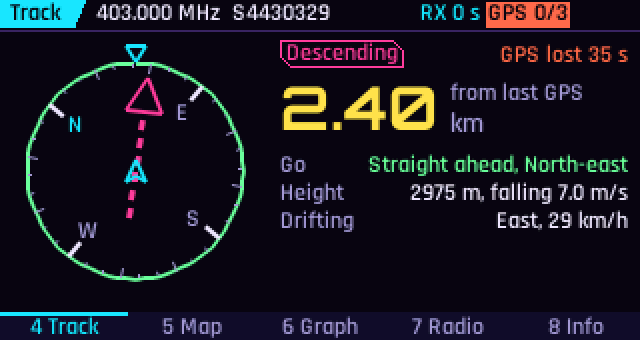
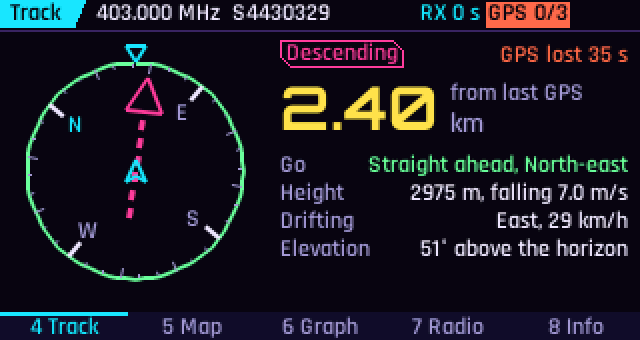
fix: Skew-T up to 10 hPa, elevation on Track, landing time that fits
Seen on the device with Y0310371, first heard at 15.5 km and then at
28 km:
- the Skew-T was empty: its axis stopped at 100 hPa and the whole
  profile lay above it. Once the sonde or its history has been above
  100 hPa the axis reaches 10 hPa (about 31 km), with grid lines and
  labels for 50, 20 and 10 hPa and finer dry adiabats up there. The
  isotherms now lean by a fixed temperature per unit of ln(p) instead of
  per pixel, so a stretched axis keeps the cold upper air on the diagram;
  the 100 hPa diagram is unchanged pixel for pixel
- Track shows the elevation to point an antenna at, from the last fix
  when GPS drops out, hidden once the sonde has landed
- the time to landing wrapped in the Track box while ascending ("in
  112:30"): from an hour it reads "1h52", and the box sizes the time
  first and gives the place text the rest; Map and Graph use the same
  format

Mockups regenerated for the changed screens.

Claude-Session: https://claude.ai/code/session_01NC5LhUc5V3FGkxE6anuYHf

Changed region(s): [[0.6562, 0.7059, 1.0, 0.7647], [0.4375, 0.7059, 0.5938, 0.7647]]

diff --git a/src/ui_graph.c b/src/ui_graph.c
@@ -7,16 +7,24 @@
 #define SK_X1 222
 #define SK_YB 143
 #define SK_YT 33
+/* Top of the pressure axis: 100 hPa, or 10 hPa (about 31 km) once the flight has been above 100 hPa. A sonde is
+ * often first heard high up, and with a fixed 100 hPa top its whole profile would lie above the diagram. */
+static double sk_top = 100.0;
+
 static double sk_y(double p)
 {
-    if (p < 100) p = 100;
+    if (p < sk_top) p = sk_top;
     if (p > 1050) p = 1050;
-    return SK_YB - log(1050.0 / p) / log(10.5) * (SK_YB - SK_YT);
+    return SK_YB - log(1050.0 / p) / log(1050.0 / sk_top) * (SK_YB - SK_YT);
 }
 
+/* Isotherms lean by the same temperature per unit of ln(p) whatever the axis' top: 45° on the 1050-100 hPa
+ * diagram. Tied to pixels instead, a stretched axis would lean less and the cold upper air slide off the left. */
 static double sk_x(double t, double p)
 {
-    return SK_X0 + (t + 35.0) * (SK_X1 - SK_X0) / 80.0 + (SK_YB - sk_y(p));
+    if (p < sk_top) p = sk_top;
+    if (p > 1050) p = 1050;
+    return SK_X0 + (t + 35.0) * (SK_X1 - SK_X0) / 80.0 + log(1050.0 / p) / log(10.5) * (SK_YB - SK_YT);
 }
 
 static void sk_ln(double t1, double p1, double t2, double p2, uint32_t col, int w)
@@ -26,25 +34,39 @@ static void sk_ln(double t1, double p1, double t2, double p2, uint32_t col, int 
 
 void p_skewt(void)
 {
-    static const int isob[] = {1000, 850, 700, 500, 300, 200, 100};
-    static const double wl[] = {900, 700, 500, 400, 300, 200, 150};
+    /* grid lines; labels only where they have room (the extended axis squeezes the lower levels) */
+    static const int isob[] = {1000, 850, 700, 500, 300, 200, 100, 50, 20, 10};
+    static const int lab100[] = {1000, 700, 500, 300, 200, 100}, lab10[] = {1000, 500, 200, 100, 50, 20, 10};
+    static const double wl100[] = {900, 700, 500, 400, 300, 200, 150}, wl10[] = {850, 500, 300, 150, 70, 30, 15};
     const hist_t *h = &A->hist;
     const sonde_t *s = &A->sonde;
-    double zero_alt = -1, trop_alt = -1, tmin = 1e9;
-    int i, th, t, p;
+    const int *lab;
+    const double *wl;
+    double zero_alt = -1, trop_alt = -1, tmin = 1e9, p, pn;
+    int i, th, t, nlab;
+
+    sk_top = A->have_sonde && s->pressure > 0 && s->pressure < 100 ? 10.0 : 100.0;
+    for (i = 0; i < h->n && sk_top > 10.0; i++)
+        if (h->p[i].pres > 0 && h->p[i].pres < 100) sk_top = 10.0;
+    lab = sk_top < 100 ? lab10 : lab100;
+    nlab = sk_top < 100 ? (int)(sizeof lab10 / sizeof lab10[0]) : (int)(sizeof lab100 / sizeof lab100[0]);
+    wl = sk_top < 100 ? wl10 : wl100;
 
     top_bar("Graph 1/2", C_CY, NULL);
     fill(SK_X0, SK_YT, SK_X1 - SK_X0, SK_YB - SK_YT, C_P);
-    for (th = -20; th < 180; th += 20) /* dry adiabats: T = theta (p/1000)^0.2857 */
-        for (p = 1050; p > 100; p -= 50)
+    for (th = -20; th < (sk_top < 100 ? 300 : 180); th += 20) /* dry adiabats: T = theta (p/1000)^0.2857 */
+        for (p = 1050; p > sk_top; p = pn) {
+            pn = p > 150 ? p - 50 : p - 5; /* finer where the axis is stretched */
             sk_ln((th + 273.15) * pow(p / 1000.0, 0.2857) - 273.15, p,
-                  (th + 273.15) * pow((p - 50) / 1000.0, 0.2857) - 273.15, p - 50, C_AD, 1);
-    for (t = -120; t < 60; t += 20) sk_ln(t, 1050, t, 100, t == 0 ? C_DIM : C_L, 1);
-    for (i = 0; i < 6; i++) ln(SK_X0, sk_y(isob[i]), SK_X1, sk_y(isob[i]), C_L, 1);
+                  (th + 273.15) * pow(pn / 1000.0, 0.2857) - 273.15, pn, C_AD, 1);
+        }
+    for (t = sk_top < 100 ? -160 : -120; t < 60; t += 20) sk_ln(t, 1050, t, sk_top, t == 0 ? C_DIM : C_L, 1);
+    for (i = 0; i < (int)(sizeof isob / sizeof isob[0]); i++)
+        if (isob[i] > sk_top) ln(SK_X0, sk_y(isob[i]), SK_X1, sk_y(isob[i]), C_L, 1);
 
     for (i = 1; i < h->n; i++) {
         const hist_pt_t *a = &h->p[i - 1], *b = &h->p[i];
-        if (a->pres < 100 && b->pres < 100) continue;
+        if (a->pres < sk_top && b->pres < sk_top) continue;
         if (a->temp > -270 && b->temp > -270) {
             sk_ln(a->temp, a->pres, b->temp, b->pres, C_CY, 2);
             if (a->rh >= 0 && b->rh >= 0 && (i & 1)) /* dashed: every second segment */
@@ -66,15 +88,15 @@ void p_skewt(void)
         fill((int)bx - 1, (int)by - 1, 4, 4, C_GN);
         txt(240, (int)y - 6, 15, F_S, C_GN, AL_R, "%.0f", h->p[best].ws);
     }
-    if (A->have_sonde && s->pressure >= 100) {
+    if (A->have_sonde && s->pressure >= sk_top) {
         dash(SK_X0, sk_y(s->pressure), SK_X1, sk_y(s->pressure), C_TX, 1, 2, 3);
     }
     ln(SK_X0, SK_YT, SK_X1, SK_YT, C_DIM, 1);
     ln(SK_X1, SK_YT, SK_X1, SK_YB, C_DIM, 1);
     ln(SK_X1, SK_YB, SK_X0, SK_YB, C_DIM, 1);
     ln(SK_X0, SK_YB, SK_X0, SK_YT, C_DIM, 1);
-    for (i = 0; i < 7; i++) /* 850 hPa has a grid line but no label: it would collide with 700 and 1000 */
-        if (isob[i] != 850) txt(0, (int)sk_y(isob[i]) - (i == 0 ? 10 : 6), SK_X0 - 3, F_S, C_DIM, AL_R, "%d", isob[i]);
+    for (i = 0; i < nlab; i++) /* 850 hPa has a grid line but no label: it would collide with 700 and 1000 */
+        txt(0, (int)sk_y(lab[i]) - (i == 0 ? 10 : (lab[i] == 10 ? 0 : 6)), SK_X0 - 3, F_S, C_DIM, AL_R, "%d", lab[i]);
     for (t = -20; t <= 40; t += 20) txt((int)sk_x(t, 1050) - 12, 144, 24, F_S, C_DIM, AL_C, t ? "%+d" : "%d", t);
     txt(226, 144, 29, F_S, C_GN, AL_R, "m/s");
 
@@ -136,7 +158,7 @@ void p_flight(void)
     if (A->have_sonde) {
         txt(26, 18, 80, F_M, C_CY, AL_L, "Alt %.0f m", A->sonde.alt);
         txt(106, 18, 86, F_M, C_PK, AL_L, "V/S %+.1f m/s", A->vv_s);
-        if (A->pred.valid && fresh()) txt(192, 18, 96, F_M, C_YL, AL_L, "Landing T-%02d:%02d", land_rem_s() / 60, land_rem_s() % 60);
+        if (A->pred.valid && fresh()) txt(192, 18, 96, F_M, C_YL, AL_L, "Landing T-%s", land_rem_txt());
     }
     nav_bar(PG_GRAPH);
 }

diff --git a/src/ui_track.c b/src/ui_track.c
@@ -170,6 +170,10 @@ static void track_panel(double dist, double brg, int last)
         const char *t = turn_words(rel, &tc);
         kv(140, 76, 174, "Go", tc, "%s, %s", t, point8(brg));
     } else kv(140, 76, 174, "Go", C_TX, "Head %s", point8(brg));
+    if (A->flight.phase != PH_LANDED) { /* where to point an antenna: from the last fix too, like the distance */
+        double el = geo_elev(dist, A->gps.alt, s->alt);
+        kv(140, 118, 174, "Elevation", C_TX, "%.0f° %s the horizon", fabs(el), el >= -0.5 ? "above" : "below");
+    }
     if (A->flight.phase == PH_LANDED) kv(140, 90, 174, "Height", C_TX, "%.0f m, landed", s->alt);
     else {
         kv(140, 90, 174, "Height", C_TX, "%.0f m, %s %.1f m/s", s->alt, A->vv_s < -0.05 ? "falling" : "rising",
@@ -179,9 +183,13 @@ static void track_panel(double dist, double brg, int last)
 
     if (ok && A->have_land && !last) {
         fmt_dist(num, sizeof num, &unit, A->land_dist);
+        char when[24];
+        int ww;
+        snprintf(when, sizeof when, "in %s", land_rem_txt());
+        ww = text_w(F_S, when) + 2; /* the time keeps its width, the place text gets the rest: no wrapping */
         box(140, 132, 174, 18, C_YL, C_P);
-        txt(146, 134, 124, F_S, C_YL, AL_L, "Lands %s %s %s", num, unit, point8(A->land_brg));
-        txt(266, 134, 42, F_S, C_YL, AL_R, "in %d:%02d", land_rem_s() / 60, land_rem_s() % 60);
+        txt(146, 134, 308 - ww - 150, F_S, C_YL, AL_L, "Lands %s %s %s", num, unit, point8(A->land_brg));
+        txt(308 - ww, 134, ww, F_S, C_YL, AL_R, "%s", when);
     } else if (!ok) {
         box(140, 132, 174, 18, C_RD, C_P);
         txt(146, 134, 40, F_S, C_DIM, AL_L, "Last fix");

diff --git a/src/ui_draw.c b/src/ui_draw.c
@@ -161,6 +161,16 @@ int land_rem_s(void)
     return r < 0 ? 0 : (int)r;
 }
 
+/* Time to landing, short enough for the small boxes: "12:30" (min:s), from an hour "1h52" (h, min). */
+const char *land_rem_txt(void)
+{
+    static char b[16];
+    int r = land_rem_s();
+    if (r >= 3600) snprintf(b, sizeof b, "%dh%02d", r / 3600 % 100, r / 60 % 60);
+    else snprintf(b, sizeof b, "%d:%02d", r / 60, r % 60);
+    return b;
+}
+
 void read_battery(void)
 {
     DIR *d;

diff --git a/src/ui_map.c b/src/ui_map.c
@@ -161,7 +161,7 @@ void p_map(void)
             int lx = (int)lx2 + 9 + 86 > 318 ? (int)lx2 - 9 - 86 : (int)lx2 + 9, ly = (int)ly2 + 5;
             if (lx < 2) lx = 2;
             fill(lx, ly, 86, 13, C_G);
-            txt(lx, ly, 86, F_S, C_YL, AL_C, "Landing T-%02d:%02d", land_rem_s() / 60, land_rem_s() % 60);
+            txt(lx, ly, 86, F_S, C_YL, AL_C, "Landing T-%s", land_rem_txt());
         }
     }
     if (have_s) {

diff --git a/src/ui_priv.h b/src/ui_priv.h
@@ -45,6 +45,7 @@ void pol(double cx, double cy, double r, double deg, double *x, double *y);
 void fmt_dist(char *num, size_t n, const char **unit, double m);
 int fresh(void);
 int land_rem_s(void);
+const char *land_rem_txt(void);
 void read_battery(void);
 void top_bar(const char *name, uint32_t chip, const char *mid);
 void nav_bar(int active);

diff --git a/docs/project-roadmap.md b/docs/project-roadmap.md
@@ -19,7 +19,7 @@ commitment to a future feature.
 | 0.5.0 | 2026-11-19 14:12 | `59e89c7`..`6f6f036` | `Tab` switches screens; SDR-style start on the Radio screen; WFM audio; automatic Scan that tries peaks; tuner-range frequency entry; frame tick and ACT LED on Track and Map; GPS satellite counts; auto_rx-format log per sonde; green compass ring within 15° |
 | 0.5.1 | 2026-11-20 | `6f6f036`..`v0.5.1` | `Z` zooms the map in; zoom range 6–18; app data grouped in `data_dir` (`~/sondechase`: `sondechase.csv`, `log/`, `tiles/`), older files moved in; map tile cache 1000 MB for offline use; one CSV header per file; auto_rx log timed by the sonde's GPS time; inline `#` comments in the config; versioned tile User-Agent; live spectrum only on the Radio screen |
 | 0.6.0 | 2026-11-20 | `v0.5.1`..`v0.6.0` | `Sym` + `R` (`-`) zooms out and `Sym` + `T` (`+`) zooms in (the driver sends them as keypad 7 and 8, which the app ignored); `Z` no longer zooms; `Q` no longer quits (hold `Esc` 3 s only, so a stray key cannot close the app); Track in plain words (distance labelled, `Go: Bear right, East`, height, drift; no degrees) and kept going from the last device fix when GPS drops out; Info 2/2 with the exact numbers; compass calibration in the app (Info, `K`, saved to `<data_dir>/compass.conf`); page number in the top-left label (`Graph 1/2`, `Info 1/2`); altitude label no longer cut off |
-| Unreleased | | `v0.6.0`.. | The LCD framebuffer is found at start (`/dev/fb_lcd`, else `/proc/fb`) instead of a fixed `/dev/fb0`, so the app stays on the LCD when HDMI is attached; a map download whose command would not fit its buffer is skipped instead of running cut; no compiler warnings under GCC 14.2; UI split into one file per screen (no visible change); tilt-compensated compass: the calibration (Info, `K`) gains a lean step that finds how the BMI270 accelerometer lines up with the BMM150 magnetometer, after which the device need not be held flat (checked on the device: 2.7° RMS up to 35° of lean against 12.3° flat-only); HackRF One support (`sdr = auto` picks it from USB; the package depends on `libhackrf0`, loaded at run time) behind a receiver back-end interface (tried on the device: scan and WFM audio), its gain in `hackrf_gain` (a total or `LNA,VGA,amp`), experimental: no RS41 reception yet ([issue #1](https://github.com/hieuha/CardputerZero-Sondechase/issues/1)); the lean step can be skipped with `Enter`, and the heading falls back to the flat formula when the accelerometer cannot be read; DSP speed-ups measured on the device: decoder front end 2.6× faster (same output bit for bit), HackRF halving 2.5×, NFM and WFM audio about 1.5×; stability review: decoder children get SIGPIPE back (a dead stage no longer leaves the pipeline hanging), the IQ loops are bounded per main-loop pass, a receiver lost while paused or during Scan is reopened and Scan resumes by itself, frames with non-finite or absurd values are dropped and serials reduced to safe characters, gpsd connects without blocking, tile downloads must be PNGs and the cache sweep and DNS check run in children, the Map wraps at the date line and clips its dashed line, config values are range-checked, the compass turn needs 0.1 G (Svalbard works) and its file is written on a fresh install |
+| Unreleased | | `v0.6.0`.. | The LCD framebuffer is found at start (`/dev/fb_lcd`, else `/proc/fb`) instead of a fixed `/dev/fb0`, so the app stays on the LCD when HDMI is attached; a map download whose command would not fit its buffer is skipped instead of running cut; no compiler warnings under GCC 14.2; UI split into one file per screen (no visible change); tilt-compensated compass: the calibration (Info, `K`) gains a lean step that finds how the BMI270 accelerometer lines up with the BMM150 magnetometer, after which the device need not be held flat (checked on the device: 2.7° RMS up to 35° of lean against 12.3° flat-only); HackRF One support (`sdr = auto` picks it from USB; the package depends on `libhackrf0`, loaded at run time) behind a receiver back-end interface (tried on the device: scan and WFM audio), its gain in `hackrf_gain` (a total or `LNA,VGA,amp`), experimental: no RS41 reception yet ([issue #1](https://github.com/hieuha/CardputerZero-Sondechase/issues/1)); the lean step can be skipped with `Enter`, and the heading falls back to the flat formula when the accelerometer cannot be read; DSP speed-ups measured on the device: decoder front end 2.6× faster (same output bit for bit), HackRF halving 2.5×, NFM and WFM audio about 1.5×; stability review: decoder children get SIGPIPE back (a dead stage no longer leaves the pipeline hanging), the IQ loops are bounded per main-loop pass, a receiver lost while paused or during Scan is reopened and Scan resumes by itself, frames with non-finite or absurd values are dropped and serials reduced to safe characters, gpsd connects without blocking, tile downloads must be PNGs and the cache sweep and DNS check run in children, the Map wraps at the date line and clips its dashed line, config values are range-checked, the compass turn needs 0.1 G (Svalbard works) and its file is written on a fresh install; Skew-T extends to 10 hPa once the flight is above 100 hPa (a sonde first heard high up drew nothing), Track shows the elevation, and the time to landing reads `1h52` from an hour so the Track box no longer wraps |
 
 Notes:
 - Version bumps touch `CMakeLists.txt`, `app-builder.json` and both READMEs (see
@@ -50,7 +50,7 @@ Grouped by kind. Each item is something the code or the test status says is miss
 | RS41 only | Other sonde types need their own decoder and `fsk_demod` parameters |
 | Weak spurs near a strong sonde (402.88 and 404.6 MHz seen with the sonde a few cm from the antenna) | The overview shows them; tuning to them shows nothing to decode |
 | Compass soft iron not calibrated: the field's sphere is about 11 % out of round on the device | Tilt-compensated heading is within about 3° RMS up to 35° of lean, 7° at 35–50°, worse beyond (measured, see [system architecture](system-architecture.md#compass-compassc)) |
-| Skew-T stops at 100 hPa; no moist adiabats or mixing-ratio lines | Upper part of the diagram is not shown |
+| Skew-T stops at 10 hPa (100 hPa until the flight goes higher); no moist adiabats or mixing-ratio lines | Above about 31 km the profile is not shown |
 | Landing prediction during ascent depends on `burst_alt`; no wind above the current altitude | Estimate changes as the balloon climbs |
 | Flight history keeps 2048 samples (decimated) and is not restored after an app restart | Graphs start empty after a restart |
 | The CSV log has no SNR or frequency error | Those fields are `-1` in the auto_rx-format log |

diff --git a/README.vi.md b/README.vi.md
@@ -76,7 +76,7 @@ Muốn tự build gói (trên máy hoặc cross-compile), xem [hướng dẫn de
 
 | Phím | Chức năng |
 |---|---|
-| `4` Track | La bàn HUD và khoảng cách tới sonde, kèm hướng cần đi viết bằng chữ (`Bear right, East`, `Straight ahead`), độ cao, hướng trôi và điểm rơi dự đoán. Vòng la bàn và dòng `Go` chuyển xanh khi mũi tên lệch không quá 15° so với hướng đang đi. Khi mất GPS, khoảng cách và hướng tính từ vị trí GPS cuối cùng của máy (màu vàng, `from last GPS`). Khi sonde chưa có GPS fix: số hiệu, frame và pin. Mỗi frame kêu tít và nháy đèn đỏ |
+| `4` Track | La bàn HUD và khoảng cách tới sonde, kèm hướng cần đi viết bằng chữ (`Bear right, East`, `Straight ahead`), độ cao, hướng trôi, góc ngẩng để chĩa anten (`Elevation 37° above the horizon`, ẩn khi sonde đã rơi xuống đất) và điểm rơi dự đoán kèm thời gian còn lại (`in 7:38`, từ một giờ trở lên là `in 1h52`). Vòng la bàn và dòng `Go` chuyển xanh khi mũi tên lệch không quá 15° so với hướng đang đi. Khi mất GPS, khoảng cách và hướng tính từ vị trí GPS cuối cùng của máy (màu vàng, `from last GPS`). Khi sonde chưa có GPS fix: số hiệu, frame và pin. Mỗi frame kêu tít và nháy đèn đỏ |
 | `5` Map | Tile bản đồ, vị trí máy, sonde, đường bay, điểm rơi. Phím mũi tên để kéo bản đồ (giữ để kéo liên tục; bản đồ thôi bám theo, hiện `free`). `Sym` + `T` (`+`) để phóng to, `Sym` + `R` (`-`) để thu nhỏ. `C` chuyển vòng giữa cả hai / theo máy / theo sonde, hoặc bám theo lại sau khi kéo. `V` đổi kiểu đơn giản / chi tiết. Khi chưa có vị trí nào: lấy tâm ở `map_lat` / `map_lon` |
 | `6` Graph | `Left` / `Right` để đổi trang: Skew-T log-P, độ cao và tốc độ đứng theo thời gian |
 | `7` Radio | Phổ kèm âm thanh của tần số đang chỉnh. `Left` / `Right` ±10 kHz, `Up` / `Down` ±100 kHz (giữ để chỉnh liên tục). `Enter` để giải mã tại đó. `S` để Scan, `Esc` để quay lại. `D` đổi chế độ (NFM / AM / USB / LSB / WFM), `B` đổi độ rộng kênh |
@@ -95,7 +95,7 @@ Cảnh báo bóng nổ hiện đè lên mọi màn hình: `Enter` để mở Map
 
 | Màn hình | Nội dung |
 |---|---|
-| Track | Vòng la bàn, mũi tên chỉ tới sonde, khoảng cách, hướng cần đi, độ cao, hướng trôi, điểm rơi; thanh trên cùng có tần số, trạng thái và GPS |
+| Track | Vòng la bàn, mũi tên chỉ tới sonde, khoảng cách, hướng cần đi, độ cao, hướng trôi, góc ngẩng, điểm rơi; thanh trên cùng có tần số, trạng thái và GPS |
 | Map | Tile OpenStreetMap (tải khi cần), vị trí máy, sonde, đường bay, điểm rơi |
 | Graph | Skew-T log-P (`Graph 1/2`) và độ cao / tốc độ đứng, có đánh dấu điểm nổ (`Graph 2/2`) |
 | Radio | Phổ trực tiếp quanh tần số đang chỉnh, vùng tô màu thể hiện độ rộng kênh, trạng thái giải mã |
@@ -197,7 +197,8 @@ dongle. Chi tiết và số đo trên máy thật: [hướng dẫn deploy](docs/
   Sau đó la bàn được bù độ nghiêng nhờ gia tốc kế, nên không cần cầm máy nằm ngang (trừ khi đầu máy chĩa gần thẳng lên
   trời hoặc xuống đất, trong khoảng 15°). Trước khi hiệu chỉnh, chỉ nên tin hướng khi đang di chuyển nhanh hơn khoảng 5,4 km/h (1,5 m/s, `cog_min_speed`)
   (hướng GPS).
-- Skew-T dừng ở 100 hPa; chưa vẽ đường đoạn nhiệt ẩm và đường tỉ lệ hỗn hợp.
+- Skew-T vẽ tới 100 hPa, hoặc tới 10 hPa (khoảng 31 km) khi chuyến bay đã lên trên 100 hPa; chưa vẽ đường đoạn nhiệt
+  ẩm và đường tỉ lệ hỗn hợp.
 - Dự đoán điểm rơi khi bóng đang lên phụ thuộc vào `burst_alt` giả định.
 - Lịch sử chuyến bay không được khôi phục sau khi mở lại app.
 - Chưa kiểm ngoài thực địa: GPS, beeper, phát hiện nổ và điểm rơi trên một chuyến bay thật. Danh sách đầy đủ trong

diff --git a/README.md b/README.md
@@ -76,7 +76,7 @@ To build the package yourself (on the device or cross-compiled), see [deployment
 
 | Key | Function |
 |---|---|
-| `4` Track | HUD compass and the distance to the sonde, with which way to go in words (`Bear right, East`, `Straight ahead`), its height and drift, and the predicted landing point. The ring and the `Go` line turn green while the arrow is within 15° of straight ahead. If GPS drops out, distance and direction come from the device's last fix (yellow, `from last GPS`). Sonde without a GPS fix: serial, frame and battery. Each frame ticks and blinks the red LED |
+| `4` Track | HUD compass and the distance to the sonde, with which way to go in words (`Bear right, East`, `Straight ahead`), its height and drift, the elevation to point an antenna at (`Elevation 37° above the horizon`, hidden once it has landed), and the predicted landing point with the time left (`in 7:38`, from an hour `in 1h52`). The ring and the `Go` line turn green while the arrow is within 15° of straight ahead. If GPS drops out, distance and direction come from the device's last fix (yellow, `from last GPS`). Sonde without a GPS fix: serial, frame and battery. Each frame ticks and blinks the red LED |
 | `5` Map | Tiles, device position, sonde, flight track, landing point. Arrow keys pan (hold to keep moving; the map stops following, `free`). `Sym` + `T` (`+`) zooms in, `Sym` + `R` (`-`) zooms out. `C` cycles both / device / sonde, or follows again after panning. `V` switches simple / detailed style. With no position yet: centred on `map_lat` / `map_lon` |
 | `6` Graph | `Left` / `Right` switch page: Skew-T log-P, altitude and vertical speed over time |
 | `7` Radio | Spectrum with the tuned frequency's audio. `Left` / `Right` ±10 kHz, `Up` / `Down` ±100 kHz (hold to keep tuning). `Enter` decodes here. `S` Scan, `Esc` goes back. `D` mode (NFM / AM / USB / LSB / WFM), `B` channel width |
@@ -95,7 +95,7 @@ The burst alert overlays every screen: `Enter` opens Map, a short `Esc` dismisse
 
 | Screen | Shows |
 |---|---|
-| Track | Compass ring, arrow to the sonde, distance, which way to go, height, drift, landing point; top bar with the frequency, state and GPS |
+| Track | Compass ring, arrow to the sonde, distance, which way to go, height, drift, elevation, landing point; top bar with the frequency, state and GPS |
 | Map | OpenStreetMap tiles (downloaded on demand), device, sonde, track, landing point |
 | Graph | Skew-T log-P (`Graph 1/2`) and altitude / vertical speed with the burst marked (`Graph 2/2`) |
 | Radio | Live spectrum of the receiver's band around the tuned frequency, shaded channel width, decode status |
@@ -194,7 +194,8 @@ a dongle. Details and the device measurements: [deployment guide](docs/deploymen
   it is tilt-compensated with the accelerometer, so the device need not be held flat (not within about 15° of
   pointing straight up or down). Until then, trust the heading only while moving faster than about 5.4 km/h
   (1.5 m/s, `cog_min_speed`), where it is the GPS course.
-- Skew-T stops at 100 hPa; moist adiabats and mixing-ratio lines are not drawn.
+- Skew-T reaches 100 hPa, or 10 hPa (about 31 km) once the flight has been above 100 hPa; moist adiabats and
+  mixing-ratio lines are not drawn.
 - Landing prediction during ascent depends on the assumed `burst_alt`.
 - Flight history is not restored after an app restart.
 - Not yet checked in the field: GPS, the beeper, burst detection and landing on a real flight. Full list in the

diff --git a/docs/system-architecture.md b/docs/system-architecture.md
@@ -39,13 +39,13 @@ The core (`sc_core`) has no LVGL dependency and is unit-tested on any Linux host
 | `src/demo.c` | 139 | Simulated flight (`demo = 1`) through the same frame path |
 | `src/keys.c` | 97 | Keyboard from evdev (`/dev/input/event*`), Sym symbol keys, held-arrow repeat |
 | `src/ui.c` | 258 | UI state, overlays (frequency entry, burst alert, no SDR), LVGL draw callback, key dispatch (`ui_key`) |
-| `src/ui_draw.c` | 233 | Drawing primitives (line, rectangle, label), top and nav bars, battery |
-| `src/ui_track.c` | 215 | Track screen and compass |
+| `src/ui_draw.c` | 243 | Drawing primitives (line, rectangle, label), top and nav bars, battery |
+| `src/ui_track.c` | 223 | Track screen and compass |
 | `src/ui_map.c` | 290 | Map screen, decoded tile cache, pan, zoom, follow, style |
-| `src/ui_graph.c` | 142 | Skew-T and flight profile |
+| `src/ui_graph.c` | 164 | Skew-T and flight profile |
 | `src/ui_radio.c` | 159 | Band overview, tuned spectrum, listening, decoding |
 | `src/ui_info.c` | 177 | Info screens and compass calibration |
-| `src/ui_priv.h` | 76 | Colours, shared UI state and prototypes for the UI files |
+| `src/ui_priv.h` | 77 | Colours, shared UI state and prototypes for the UI files |
 | `src/ui.h` | 16 | UI entry points used by `main.c` |
 | `tools/render.c` | 226 | Headless build of the real UI for screenshots (`SC_RENDER`) |
 
@@ -164,7 +164,8 @@ steps through the band. `spec_peaks` returns the peaks for the Radio screen and 
 - `heading_update` picks the compass source in this order: GPS course when speed ≥ `cog_min_speed`, the magnetometer
   when found (read at 5 Hz), otherwise hold the last heading (`HDG_HOLD`). With `mag_tilt = 1` the magnetometer
   heading is tilt-compensated (see [compass](#compass-compassc)).
-- With a sonde and a valid GPS fix: ground distance, bearing, elevation angle and the relative bearing for the
+- With a sonde and a valid GPS fix: ground distance, bearing, elevation angle (also on Track, from the last fix
+  when GPS drops out, hidden once the sonde has landed) and the relative bearing for the
   arrow. Landing point distance and bearing when a prediction exists.
 - The proximity beeper (`prox_update`) and the telemetry tones use the ground distance.
 
@@ -380,7 +381,10 @@ leaning, and the two sensors being read a few milliseconds apart.
 
 ### Skew-T log-P (`ui_graph.c`)
 
-Pressure axis `y ∝ ln(1050 / p)` from 1050 to 100 hPa. Isotherms are skewed 45°, dry adiabats follow
+Pressure axis `y ∝ ln(1050 / p)` from 1050 to 100 hPa, or to 10 hPa once the sonde or its history has been above
+100 hPa: a sonde is often first heard high up, and on a fixed 100 hPa axis its whole profile would lie above the
+diagram (seen with Y0310371, first heard at 15.5 km). The isotherms lean by a fixed temperature per unit of ln(p),
+45° on the 100 hPa axis, so the cold upper air stays on the diagram when it stretches. Dry adiabats follow
 `T = θ · (p / 1000)^0.2857`. Dew point uses the Magnus formula (`dewpoint`, a = 17.62, b = 243.12 °C).
 Moist adiabats and mixing-ratio lines are not drawn.
 

diff --git a/docs/codebase-summary.md b/docs/codebase-summary.md
@@ -21,7 +21,7 @@ working tree and from the line counts below. Regenerate after large changes.
 | Language | C11, one application, plus two shell and Python helper groups |
 | Application | `sondechase` (CardputerZero, Debian 13 arm64), LVGL 9.5.0 UI |
 | Core | `sc_core`, no LVGL, unit-tested on Linux |
-| Source size | `src/` 6172 lines (`src/app.c` 627 the largest, `src/sc.h` 559) |
+| Source size | `src/` 6213 lines (`src/app.c` 627 the largest, `src/sc.h` 559) |
 | Tests | `tests/test_core.c` (1613 lines), 4462 checks, all passing (GCC 14.2, Debian trixie) |
 | External programs run | `fsk_demod`, `rs41mod` (built from `radiosonde_auto_rx` v1.9.0), `pacat`, `curl`, `gpsd` (socket) |
 | Runtime libraries | `librtlsdr`, or `libhackrf` for a HackRF (loaded with `dlopen`), libc, libm, pthread |
@@ -73,13 +73,13 @@ working tree and from the line counts below. Regenerate after large changes.
 | `src/demo.c` | 139 | `demo_poll`, `demo_advance` | Simulated flight |
 | `src/keys.c` | 97 | `keys_open`, `keys_read`, `keys_esc_held_s` | evdev keyboard, Sym symbol keys, held-arrow repeat, Esc timing |
 | `src/ui.c` | 258 | `ui_init`, `ui_key`, `draw_cb`, `tick_cb` | UI state, overlays (frequency entry, burst alert, no SDR), LVGL glue, key dispatch |
-| `src/ui_draw.c` | 233 | `ln`, `fill`, `txt`, `box`, `kv`, `top_bar`, `nav_bar` | Drawing primitives, top and nav bars, battery, shared helpers |
-| `src/ui_track.c` | 215 | `p_track`, `compass`, `phase_name` | Track screen, compass, plain-language directions |
+| `src/ui_draw.c` | 243 | `ln`, `fill`, `txt`, `box`, `kv`, `top_bar`, `nav_bar` | Drawing primitives, top and nav bars, battery, shared helpers |
+| `src/ui_track.c` | 223 | `p_track`, `compass`, `phase_name` | Track screen, compass, plain-language directions |
 | `src/ui_map.c` | 290 | `p_map`, `map_pan`, `map_zoom_step`, `map_follow_next`, `map_style_toggle` | Map screen, decoded tile cache, pan, zoom, follow, style |
-| `src/ui_graph.c` | 142 | `p_skewt`, `p_flight` | Graph screens: Skew-T and flight profile |
+| `src/ui_graph.c` | 164 | `p_skewt`, `p_flight` | Graph screens: Skew-T and flight profile |
 | `src/ui_radio.c` | 159 | `p_scan` | Radio screen: band overview, tuned spectrum, listening, decoding |
 | `src/ui_info.c` | 177 | `p_info`, `p_info_pos`, `p_cal` | Info screens and compass calibration |
-| `src/ui_priv.h` | 76 | all of the above | Colours, shared UI state and prototypes for the UI files |
+| `src/ui_priv.h` | 77 | all of the above | Colours, shared UI state and prototypes for the UI files |
 | `src/ui.h` | 16 | `ui_init`, `ui_key`, `keys_*` | UI interface for `main.c` and the tests |
 
 One UI file per screen: Track (`4`, `ui_track.c`), Map (`5`, `ui_map.c`), Graph (`6`, Skew-T and flight pages,
